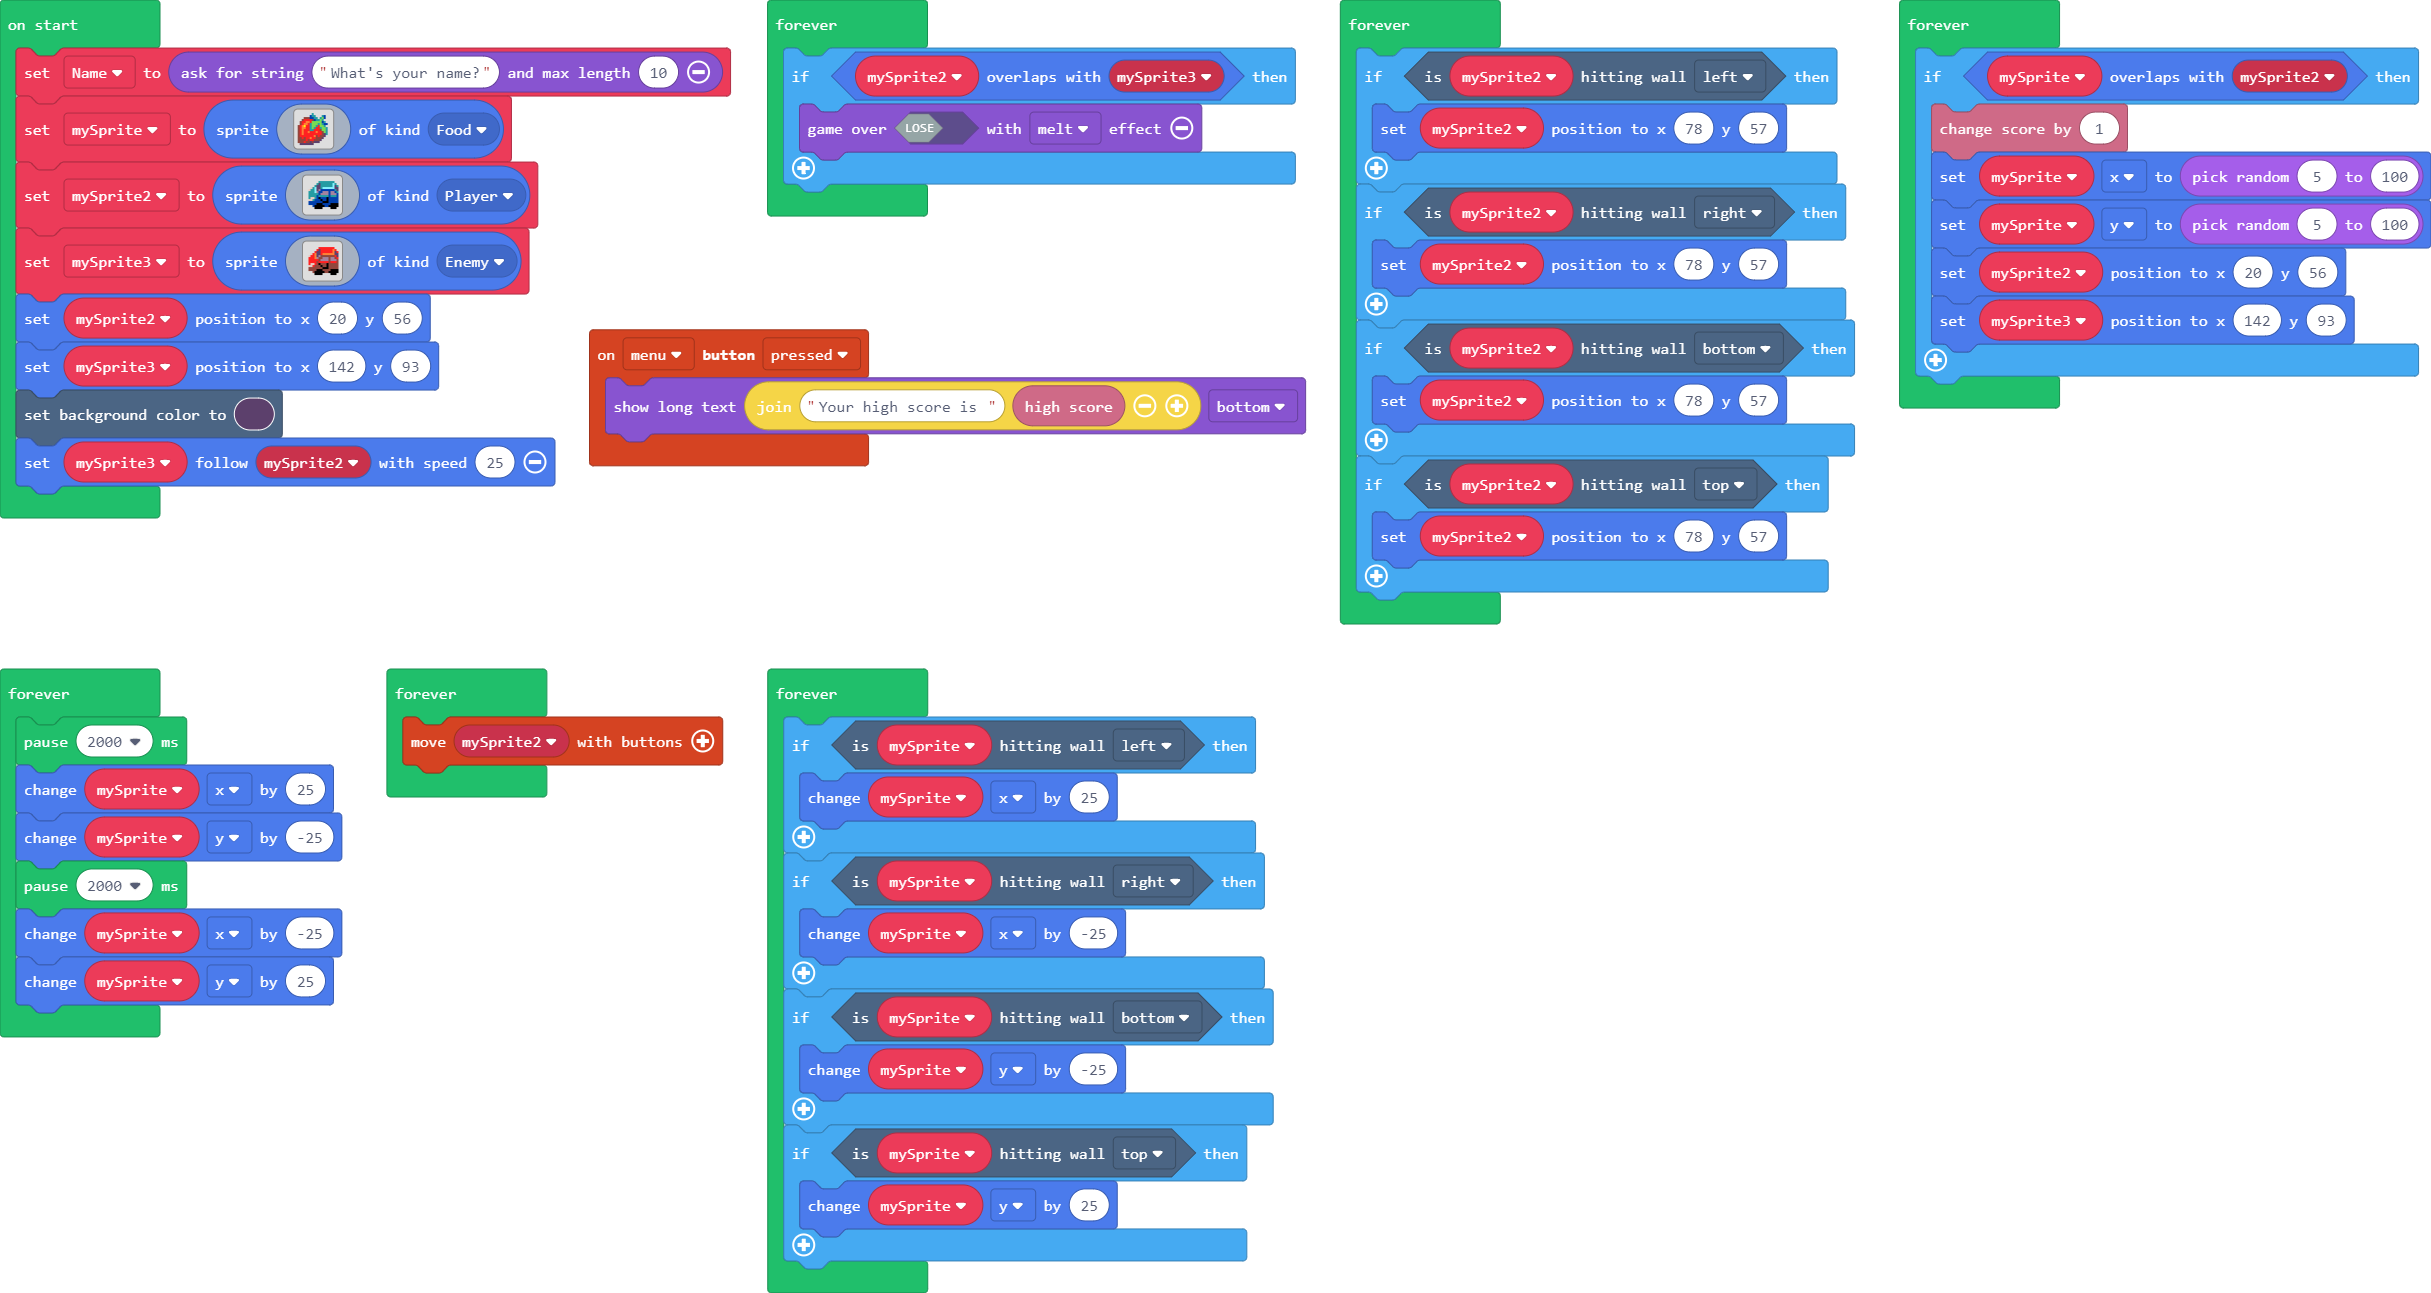
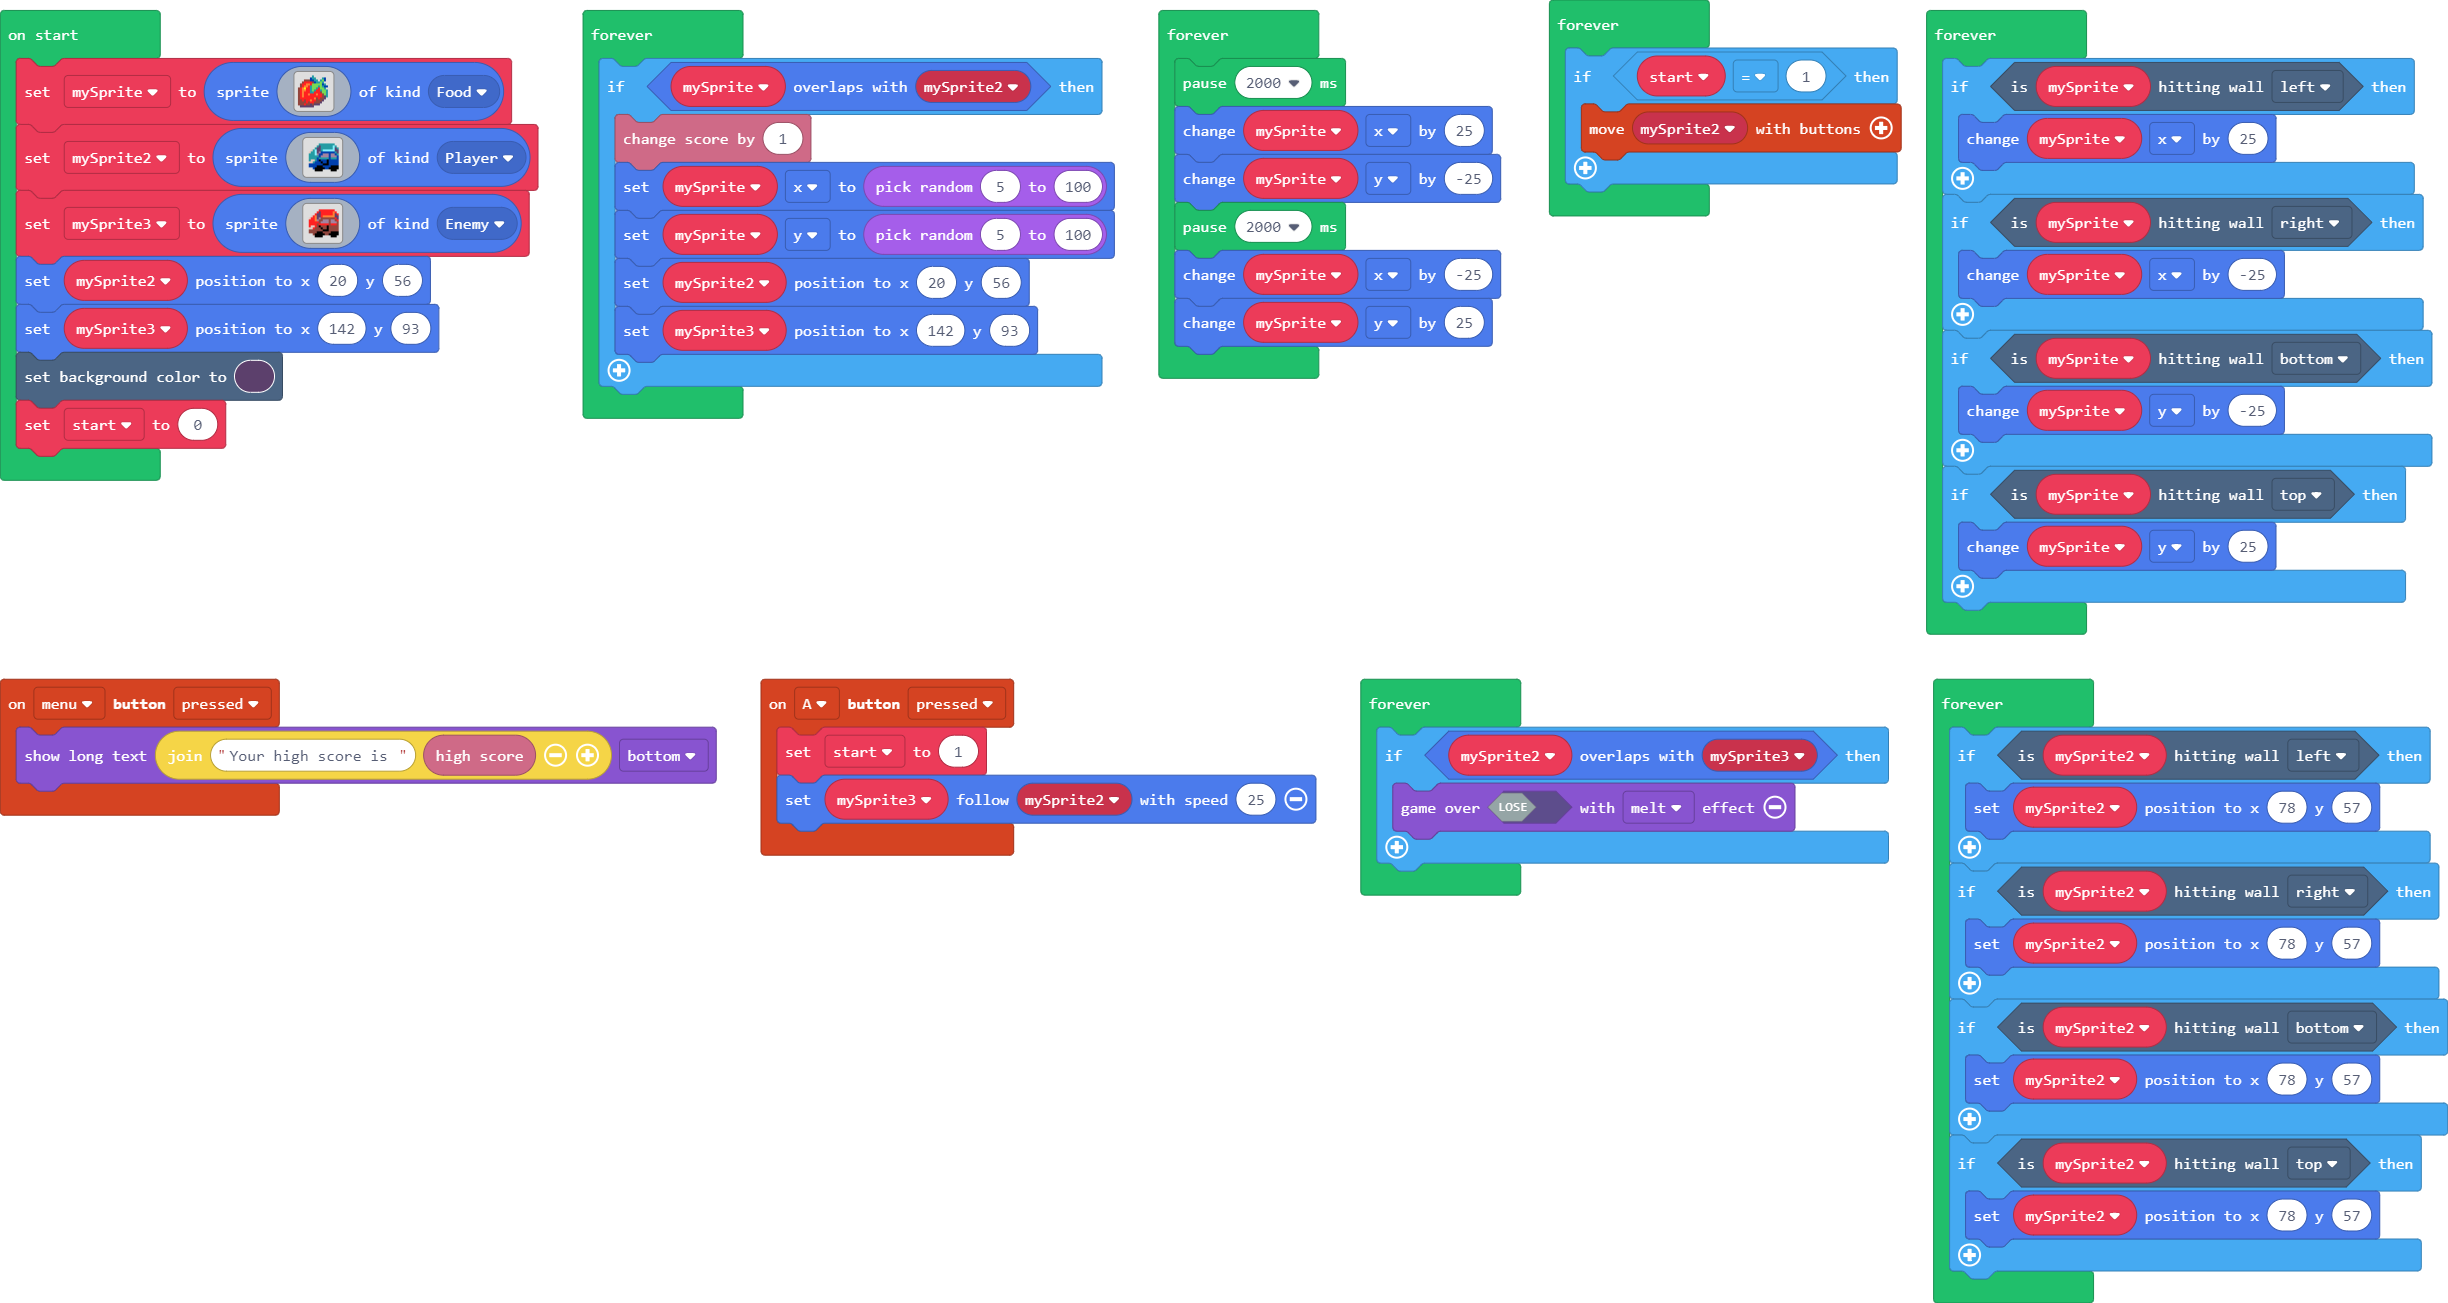
New! Press A to start the game! And now, there's no "What's your name?".

diff --git a/main.ts b/main.ts
@@ -4,7 +4,13 @@ namespace SpriteKind {
 controller.menu.onEvent(ControllerButtonEvent.Pressed, function () {
     game.showLongText("Your high score is " + info.highScore(), DialogLayout.Bottom)
 })
-let Name = game.askForString("What's your name?", 10)
+controller.A.onEvent(ControllerButtonEvent.Pressed, function () {
+    start = 1
+    mySprite3.follow(mySprite2, 25)
+})
+let start = 0
+let mySprite3: Sprite = null
+let mySprite2: Sprite = null
 let mySprite = sprites.create(img`
     . . . . . . . 6 . . . . . . . .
     . . . . . . 8 6 6 . . . 6 8 . .
@@ -23,7 +29,7 @@ let mySprite = sprites.create(img`
     e e e 2 e e c e c c c . . . . .
     . c c c c c c c . . . . . . . .
 `, SpriteKind.Food)
-let mySprite2 = sprites.create(img`
+mySprite2 = sprites.create(img`
     . . . . . . . . . . . . . . . .
     . . . . . . 6 6 6 6 6 6 6 6 . .
     . . . . . 6 c 6 6 6 6 6 6 9 6 .
@@ -41,7 +47,7 @@ let mySprite2 = sprites.create(img`
     . . . . f f f f . . . . f f f .
     . . . . . . . . . . . . . . . .
 `, SpriteKind.Player)
-let mySprite3 = sprites.create(img`
+mySprite3 = sprites.create(img`
     . . . . . . . . . . . . . . . .
     . . . . . . 2 2 2 2 2 2 2 2 . .
     . . . . . 2 c 2 2 2 2 2 2 4 2 .
@@ -62,26 +68,7 @@ let mySprite3 = sprites.create(img`
 mySprite2.setPosition(20, 56)
 mySprite3.setPosition(142, 93)
 scene.setBackgroundColor(12)
-mySprite3.follow(mySprite2, 25)
-forever(function () {
-    if (mySprite2.overlapsWith(mySprite3)) {
-        game.over(false, effects.melt)
-    }
-})
-forever(function () {
-    if (mySprite2.isHittingTile(CollisionDirection.Left)) {
-        mySprite2.setPosition(78, 57)
-    }
-    if (mySprite2.isHittingTile(CollisionDirection.Right)) {
-        mySprite2.setPosition(78, 57)
-    }
-    if (mySprite2.isHittingTile(CollisionDirection.Bottom)) {
-        mySprite2.setPosition(78, 57)
-    }
-    if (mySprite2.isHittingTile(CollisionDirection.Top)) {
-        mySprite2.setPosition(78, 57)
-    }
-})
+start = 0
 forever(function () {
     if (mySprite.overlapsWith(mySprite2)) {
         info.changeScoreBy(1)
@@ -100,7 +87,9 @@ forever(function () {
     mySprite.y += 25
 })
 forever(function () {
-    controller.moveSprite(mySprite2)
+    if (start == 1) {
+        controller.moveSprite(mySprite2)
+    }
 })
 forever(function () {
     if (mySprite.isHittingTile(CollisionDirection.Left)) {
@@ -114,5 +103,24 @@ forever(function () {
     }
     if (mySprite.isHittingTile(CollisionDirection.Top)) {
         mySprite.y += 25
+    }
+})
+forever(function () {
+    if (mySprite2.overlapsWith(mySprite3)) {
+        game.over(false, effects.melt)
+    }
+})
+forever(function () {
+    if (mySprite2.isHittingTile(CollisionDirection.Left)) {
+        mySprite2.setPosition(78, 57)
+    }
+    if (mySprite2.isHittingTile(CollisionDirection.Right)) {
+        mySprite2.setPosition(78, 57)
+    }
+    if (mySprite2.isHittingTile(CollisionDirection.Bottom)) {
+        mySprite2.setPosition(78, 57)
+    }
+    if (mySprite2.isHittingTile(CollisionDirection.Top)) {
+        mySprite2.setPosition(78, 57)
     }
 })
